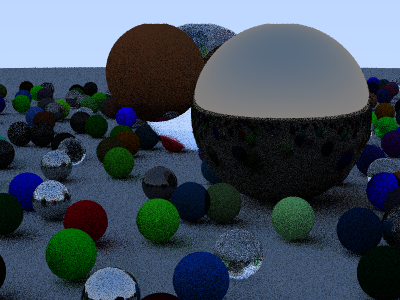
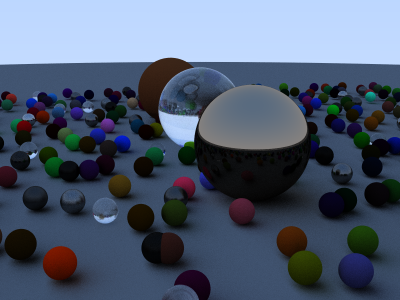
add rayon for parallel rendering; but currently it crashes because of memory corruption issue? staging for now as i investigate the issue.

diff --git a/src/renderer.rs b/src/renderer.rs
@@ -1,16 +1,17 @@
-use glam::DVec3;
+use glam::{DVec3};
+use rayon::prelude::*;
 
-use crate::accel::BVH;
+use crate::accel::{BVH};
 use crate::camera::Camera;
-use crate::integrator::Integrator;
-use crate::sampler::Sampler;
+use crate::integrator::{Integrator};
+use crate::sampler::{Sampler, RandomSampler};
 use crate::scene::Scene;
 pub struct Renderer {
     pub width: usize,
     pub height: usize,
-    pub buffer: Vec<DVec3>,
     pub samples: usize,
     pub depth: i32,
+    pub buffer: Vec<DVec3>,
 }
 
 impl Renderer {
@@ -18,18 +19,20 @@ impl Renderer {
         Renderer { width, height, buffer: vec![DVec3::ZERO; width * height], samples, depth }
     }
 
-    pub fn render(&mut self, camera: &dyn Camera, scene: &Scene, sampler: &mut dyn Sampler, integrator: &dyn Integrator) {
+    pub fn render(&mut self, camera: &dyn Camera, scene: &Scene, integrator: &dyn Integrator) {
         let bvh = BVH::new(&scene.objects);
-
-        for y in 0..self.height {
+        let bands: Vec<(usize, &mut [DVec3])> = self.buffer.chunks_mut(self.width).enumerate().collect();
+        bands.into_par_iter().for_each(|(i, band)| {
+            let mut sampler = RandomSampler::new();
+            let y = i;
             for x in 0..self.width {
                 let mut color = DVec3::ZERO;
                 for _ in 0..self.samples {
-                    let u = (x as f64 + rand::random::<f64>()) / self.width as f64 * 2.0 - 1.0;
-                    let v = 1.0 - (y as f64 + rand::random::<f64>()) / self.height as f64 * 2.0;
+                    let u = (x as f64 + sampler.get_1d()) / self.width as f64 * 2.0 - 1.0;
+                    let v = 1.0 - (y as f64 + sampler.get_1d()) / self.height as f64 * 2.0;
                     let ray = camera.get_ray(u, v);
                     // println!("ray: {:?}", ray);
-                    color  += integrator.li(&ray, &bvh, sampler, self.depth);
+                    color  += integrator.li(&ray, &bvh, &mut sampler, self.depth);
                     // color += (ray.direction + DVec3::ONE) * 0.5;
                 }
 
@@ -38,9 +41,31 @@ impl Renderer {
                 color.y = color.y.clamp(0.0, 1.0);
                 color.z = color.z.clamp(0.0, 1.0);
                 
-                self.buffer[y * self.width + x] = color;
+                band[x] = color;
             }
-        }
+        })
+
+        
+        // for y in 0..self.height {
+        //     for x in 0..self.width {
+        //         let mut color = DVec3::ZERO;
+        //         for _ in 0..self.samples {
+        //             let u = (x as f64 + rand::random::<f64>()) / self.width as f64 * 2.0 - 1.0;
+        //             let v = 1.0 - (y as f64 + rand::random::<f64>()) / self.height as f64 * 2.0;
+        //             let ray = camera.get_ray(u, v);
+        //             // println!("ray: {:?}", ray);
+        //             color  += integrator.li(&ray, &bvh, sampler, self.depth);
+        //             // color += (ray.direction + DVec3::ONE) * 0.5;
+        //         }
+
+        //         color /= self.samples as f64;
+        //         color.x = color.x.clamp(0.0, 1.0);
+        //         color.y = color.y.clamp(0.0, 1.0);
+        //         color.z = color.z.clamp(0.0, 1.0);
+                
+        //         self.buffer[y * self.width + x] = color;
+        //     }
+        // }
     }
 
 

diff --git a/src/threadpool.rs b/src/threadpool.rs
@@ -1,0 +1,72 @@
+use std::sync::{mpsc, mpsc::Receiver, Arc, Mutex};
+use std::thread::{self, Thread};
+pub struct Worker {
+    id: usize,
+    thread: Option<thread::JoinHandle<()>>,
+}
+
+pub struct ThreadPool {
+    workers: Vec<Worker>,
+    sender: Option<mpsc::Sender<Job>>,
+    finished: bool,
+}
+
+impl ThreadPool {
+    pub fn new(size: usize) -> ThreadPool {
+        assert!(size > 0);
+        let (sender, receiver) = mpsc::channel();
+        let receiver = Arc::new(Mutex::new(receiver));
+        let mut workers = Vec::with_capacity(size);
+        for id in 0..size {
+            workers.push(Worker::new(id, Arc::clone(&receiver)));
+        }
+        ThreadPool {
+            workers,
+            sender: Some(sender),
+            finished: false,
+        }
+    }
+
+    pub fn execute<F>(&self, f: F)
+    where
+        F: FnOnce() + Send + 'static,
+    {
+        let job = Box::new(f);
+        self.sender.as_ref().unwrap().send(job).unwrap();
+    }
+}
+
+impl Drop for ThreadPool {
+    fn drop(&mut self) {
+        drop(self.sender.take());
+        for worker in &mut self.workers {
+            if let Some(thread) = worker.thread.take() {
+                thread.join().unwrap();
+            }
+        }
+    }
+}
+
+type Job = Box<dyn FnOnce() + Send + 'static>;
+
+impl Worker {
+    fn new(id: usize, receiver: Arc<Mutex<Receiver<Job>>>) -> Worker {
+        let thread = thread::spawn(move || loop {
+            let message = receiver.lock().unwrap().recv();
+            match message {
+                Ok(job) => {
+                    println!("Worker {id} got a job; executing.");
+                    job();
+                }
+                Err(_) => {
+                    println!("Worker {id} disconnected; shutting down.");
+                    break;
+                }
+            }
+        });
+        Worker {
+            id,
+            thread: Some(thread),
+        }
+    }
+}

diff --git a/examples/second.rs b/examples/second.rs
@@ -6,14 +6,14 @@ use rayrs::{renderer::Renderer, camera::{PerspectiveCamera}, integrator::TestInt
 fn main() {
     let width = 400;
     let height = 300;
-    let samples = 1000;
-    let depth = 10;
+    let samples = 50;
+    let depth = 50;
     let mut renderer = Renderer::new(width, height, samples, depth);
     let camera = PerspectiveCamera::new(
-        glam::DVec3::new(13.0, 2.0, 3.0),
+        glam::DVec3::new(13.0, 3.0, 3.0),
         glam::DVec3::new(0.0, 0.0, 0.0),
         glam::DVec3::new(0.0, 1.0, 0.0),
-        20.0,
+        30.0,
         width as f64 / height as f64,
     );
 
@@ -57,7 +57,7 @@ fn main() {
     let material3 = Rc::new(Box::new(Metal::new(glam::DVec3::new(0.7, 0.6, 0.5), 0.0)) as Box<dyn Material>);
     scene.add(Object::new(Rc::new(Box::new(Sphere::new(glam::DVec3::new(4.0, 1.0, 0.0), 1.0)) as Box<dyn Hittable>), material3));
 
-    renderer.render(&camera, &scene, &mut sampler, &integrator);
+    renderer.render(&camera, &scene, &integrator);
 
     renderer.save("second.png");
 }

diff --git a/src/accel.rs b/src/accel.rs
@@ -66,11 +66,15 @@ impl <'scene> BVH<'scene> {
             return None
         } 
         let mut hit = None;
+        let mut closest = std::f64::MAX;
         if self.nodes[node].left.is_none() && self.nodes[node].right.is_none() {
             for i in 0..self.nodes[node].primitive.len() {
                 let object = &self.objects[self.nodes[node].primitive[i]];
                 if let Some(record) = object.hit(ray) {
-                    hit = Some(record);
+                    if record.t < closest {
+                        closest = record.t;
+                        hit = Some(record);
+                    }
                 }
             }
             return hit
@@ -115,3 +119,5 @@ impl<'scene> Hittable for BVH<'scene> {
     }
 }
     
+unsafe impl<'scene> Send for BVH<'scene> {}
+unsafe impl<'scene> Sync for BVH<'scene> {}

diff --git a/examples/first.rs b/examples/first.rs
@@ -17,7 +17,6 @@ fn main() {
     );
 
     let integrator = TestIntegrator::new();
-    let mut sampler = RandomSampler::new();
     let mut scene = Scene::new();
 
     let material_ground = Rc::new(Box::new(Lambertian::new(glam::DVec3::new(0.8, 0.8, 0.0))) as Box<dyn Material>) ;
@@ -38,7 +37,7 @@ fn main() {
     scene.add(object3);
     scene.add(object4);
 
-    renderer.render(&camera, &scene, &mut sampler, &integrator);
+    renderer.render(&camera, &scene,  &integrator);
 
     renderer.save("first.png");
 }

diff --git a/src/bbox.rs b/src/bbox.rs
@@ -94,9 +94,12 @@ impl BBox {
             if inv_d < 0.0 {
                 std::mem::swap(&mut t_near, &mut t_far);
             }
+            if t0 > t_far || t_near > t1 {
+                return false;
+            }
             t0 = t_near.max(t0);
             t1 = t_far.min(t1);
-            if t0 >= t1 {
+            if t0 > t1 {
                 return false;
             }
         }

diff --git a/src/hittable.rs b/src/hittable.rs
@@ -57,8 +57,8 @@ impl Hittable for Sphere {
 
     fn bbox(&self) -> BBox {
         BBox::new(
-            self.center - DVec3::splat(self.radius),
-            self.center + DVec3::splat(self.radius),
+            self.center - DVec3::splat(self.radius + 0.0001) ,
+            self.center + DVec3::splat(self.radius + 0.0001),
         )
     }
 }

diff --git a/src/integrator.rs b/src/integrator.rs
@@ -2,7 +2,7 @@ use glam::DVec3;
 
 use crate::{ray::Ray, scene::Scene, sampler::Sampler, accel::Accel};
 
-pub trait Integrator {
+pub trait Integrator : Send + Sync{
     fn li(&self, ray: &Ray, accel: &dyn Accel, sampler: &mut dyn Sampler, depth: i32) -> DVec3;
 }
 

diff --git a/src/camera.rs b/src/camera.rs
@@ -2,10 +2,9 @@ use glam::DVec3;
 
 use crate::{ray::Ray, transform::Transform};
 
-pub trait Camera {
+pub trait Camera : Send + Sync{
     fn get_ray(&self, u: f64, v: f64) -> Ray;
 }
-
 
 pub struct PerspectiveCamera {
     pub transform: Transform,

diff --git a/src/scene.rs b/src/scene.rs
@@ -8,6 +8,9 @@ pub struct Scene {
     pub objects: Vec<Object>,
 }
 
+unsafe impl Send for Scene {}
+unsafe impl Sync for Scene {}
+
 impl Scene {
     pub fn new() -> Scene {
         Scene { objects: Vec::new()}

diff --git a/src/lib.rs b/src/lib.rs
@@ -11,3 +11,4 @@ pub mod sampling;
 pub mod object;
 pub mod accel;
 pub mod bbox;
+pub mod threadpool;
